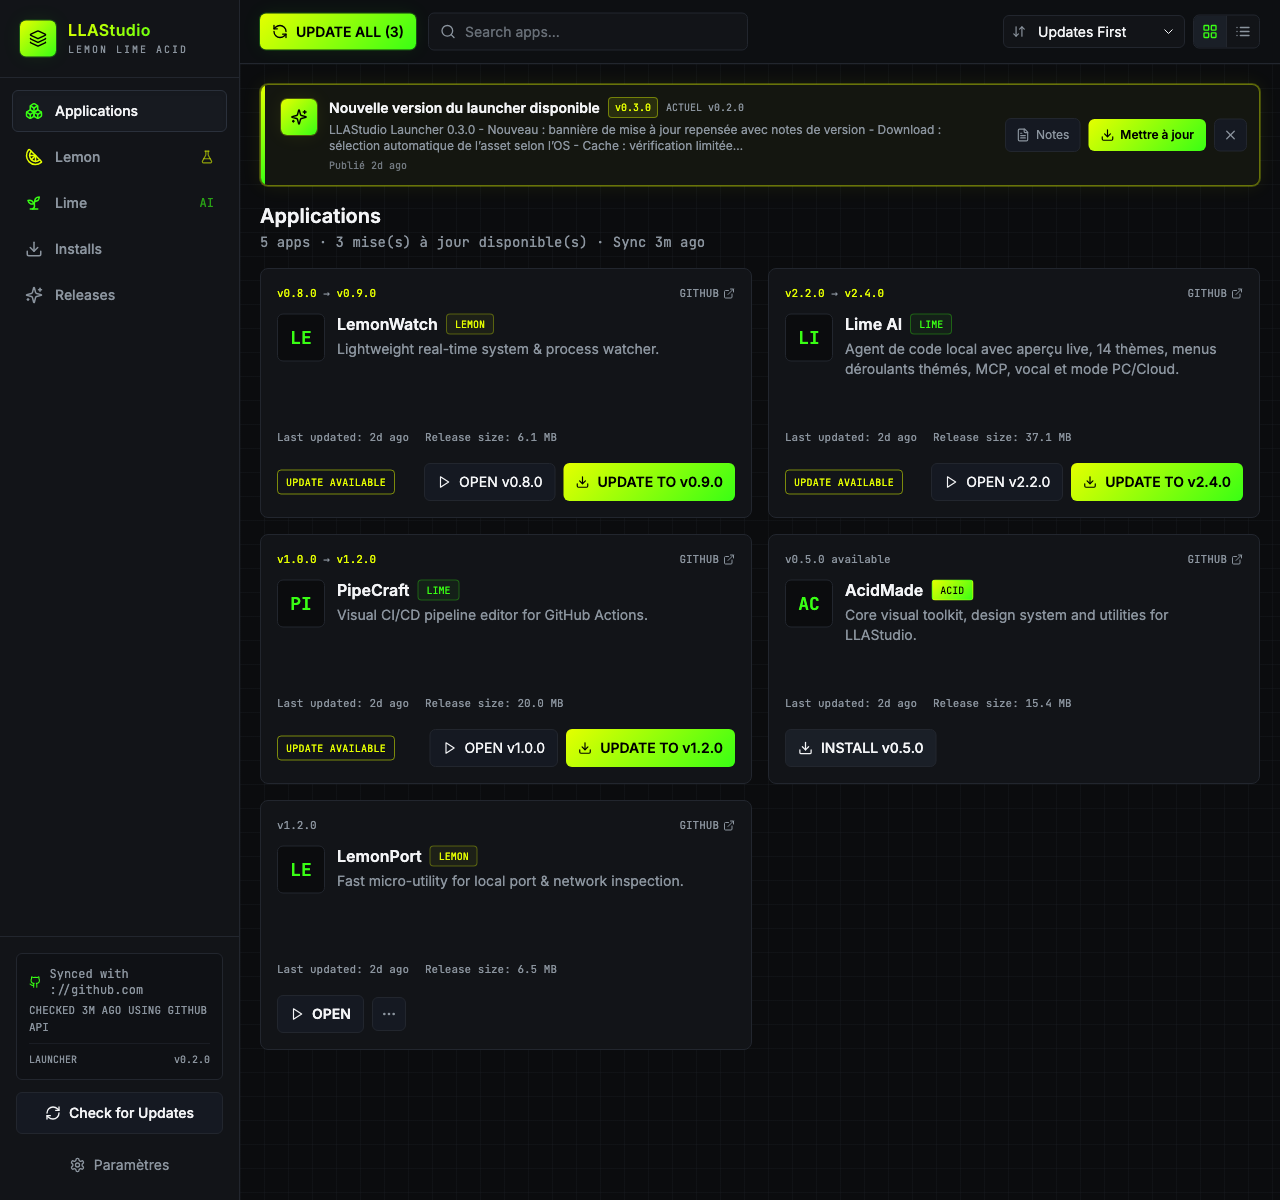
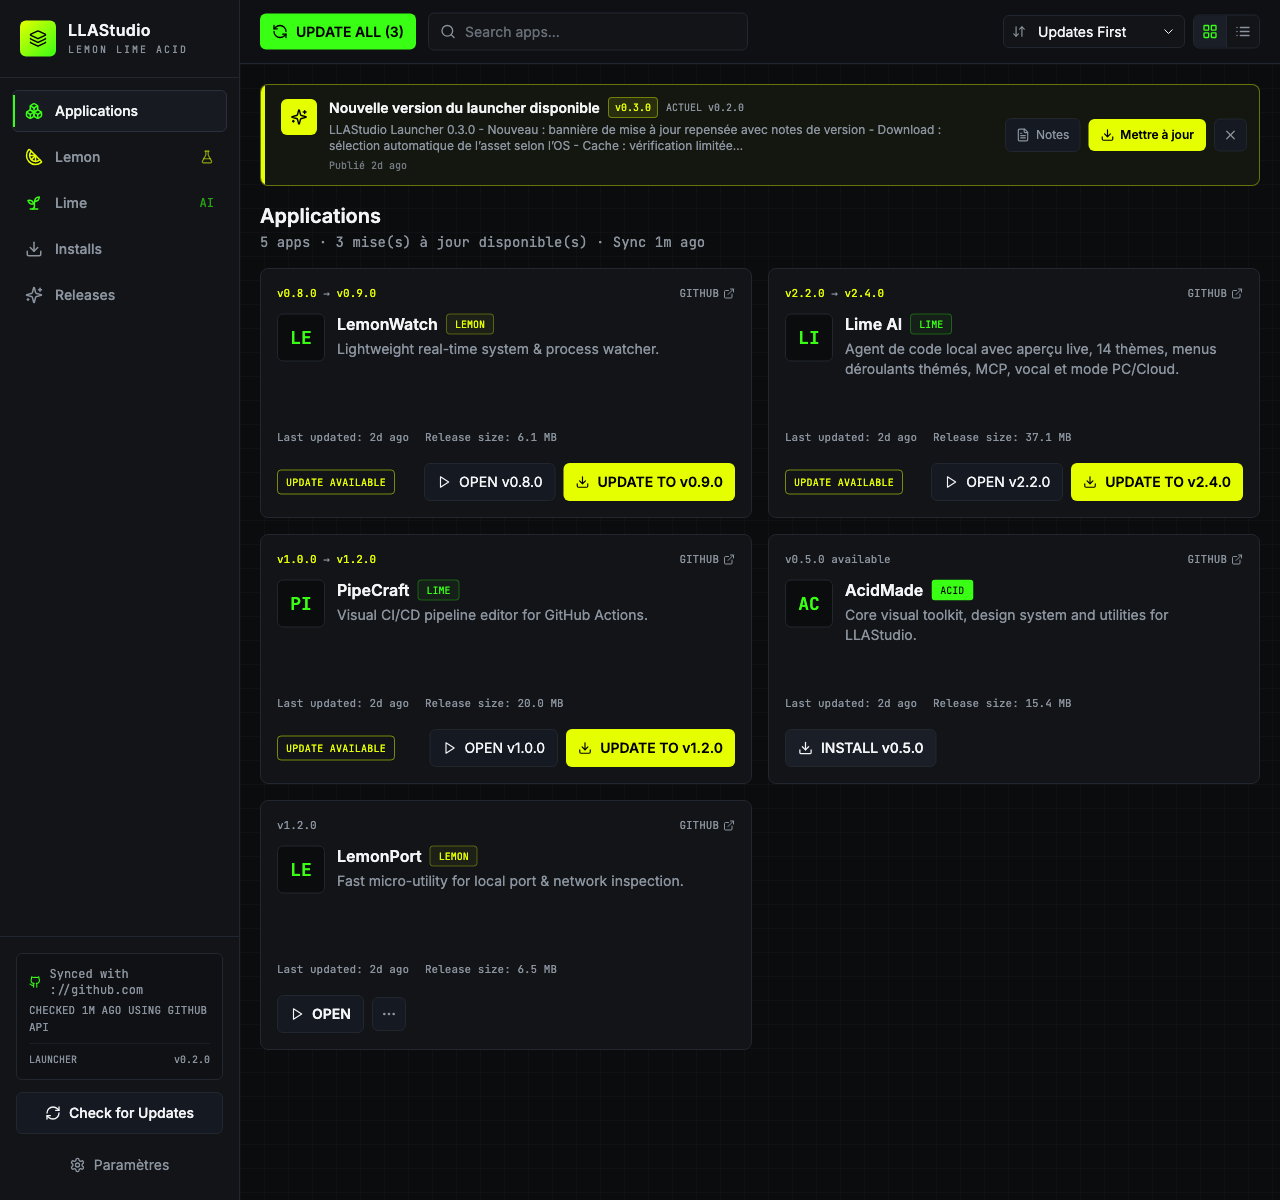
Sharpen the launcher visual language
Reduce border radii, remove neon glows and soft shadows, use flat lime/lemon action accents, and refresh the README screenshots.

🤖 Generated with Codebuff

diff --git a/src/components/AppCard.tsx b/src/components/AppCard.tsx
@@ -27,7 +27,7 @@ interface AppCardProps {
 const tagStyles: Record<string, string> = {
   Lemon: 'text-lemon border-lemon/30 bg-lemon/5',
   Lime: 'text-lime border-lime/30 bg-lime/5',
-  Acid: 'text-black border-transparent bg-acid',
+  Acid: 'text-black border-transparent bg-lime',
 };
 
 export const AppCard: React.FC<AppCardProps> = ({
@@ -77,8 +77,8 @@ export const AppCard: React.FC<AppCardProps> = ({
             <span>{updateAvailable ? 'Updating' : 'Installing'} v{download.targetVersion || latestVersion}</span>
             <span>{progress.toFixed(0)}%</span>
           </div>
-          <div className="h-2 rounded-full bg-[#0B0C0E] border border-border overflow-hidden">
-            <div className="h-full bg-acid transition-all" style={{ width: `${progress}%` }} />
+          <div className="h-2 rounded-none bg-[#0B0C0E] border border-border overflow-hidden">
+            <div className="h-full bg-lime transition-all" style={{ width: `${progress}%` }} />
           </div>
         </div>
       );
@@ -113,7 +113,7 @@ export const AppCard: React.FC<AppCardProps> = ({
             <button
               onClick={() => onUpdate(latestVersion)}
               disabled={!bestAsset}
-              className="inline-flex items-center gap-2 px-3 py-2 rounded-md bg-acid text-black font-semibold text-sm hover:brightness-110 disabled:opacity-50"
+              className="inline-flex items-center gap-2 px-3 py-2 rounded-md bg-lemon text-black font-semibold text-sm hover:brightness-110 disabled:opacity-50"
             >
               <Download size={14} /> UPDATE TO v{latestVersion}
             </button>
@@ -140,7 +140,7 @@ export const AppCard: React.FC<AppCardProps> = ({
           </button>
           {menuOpen && (
             <div
-              className="absolute right-0 bottom-full mb-2 w-52 rounded-md border border-border bg-[#121418] shadow-xl z-20 overflow-hidden"
+              className="absolute right-0 bottom-full mb-2 w-52 rounded-md border border-border bg-[#121418] z-20 overflow-hidden"
               onMouseLeave={() => setMenuOpen(false)}
             >
               <button onClick={() => { setMenuOpen(false); onOpenDetails(); }} className="w-full px-3 py-2 text-left text-sm hover:bg-[#1A1F27] flex items-center gap-2">
@@ -189,7 +189,7 @@ export const AppCard: React.FC<AppCardProps> = ({
   }
 
   return (
-    <div className="group border border-border bg-card rounded-lg p-4 hover:border-[#2f3542] hover:shadow-[0_0_0_1px_rgba(57,255,20,0.06)] transition flex flex-col min-h-[250px]">
+    <div className="group border border-border bg-card rounded-lg p-4 hover:border-[#3A4150] transition flex flex-col min-h-[250px]">
       <div className="flex items-start justify-between gap-2 mb-3">
         {headerVersion}
         <button onClick={onOpenRepo} className="font-mono text-[11px] text-muted hover:text-lime inline-flex items-center gap-1 shrink-0">

diff --git a/src/components/Topbar.tsx b/src/components/Topbar.tsx
@@ -24,12 +24,12 @@ export const Topbar: React.FC<TopbarProps> = ({
   onViewModeChange,
 }) => {
   return (
-    <div className="h-16 border-b border-border bg-[#0E1014]/80 backdrop-blur flex items-center justify-between px-5 gap-4">
+    <div className="h-16 border-b border-border bg-[#0E1014] flex items-center justify-between px-5 gap-4">
       <div className="flex min-w-0 flex-1 items-center gap-3">
         {updatesCount > 0 && (
           <button
             onClick={onUpdateAll}
-            className="shrink-0 inline-flex items-center gap-2 px-3 py-2 rounded-md bg-acid text-black font-semibold text-sm hover:brightness-110 transition shadow-glowLime"
+            className="shrink-0 inline-flex items-center gap-2 px-3 py-2 rounded-md bg-lime text-black font-semibold text-sm hover:brightness-110 transition"
             title="Update all applications with available updates"
           >
             <RefreshCcw size={16} /> UPDATE ALL ({updatesCount})
@@ -41,7 +41,7 @@ export const Topbar: React.FC<TopbarProps> = ({
             value={search}
             onChange={(e) => onSearchChange(e.target.value)}
             placeholder="Search apps..."
-            className="w-full bg-[#121418] border border-border rounded-md pl-9 pr-3 py-2 text-sm outline-none focus:border-lime/40 focus:shadow-glowLime placeholder:text-muted/70"
+            className="w-full bg-[#121418] border border-border rounded-md pl-9 pr-3 py-2 text-sm outline-none focus:border-lime/50 placeholder:text-muted/70"
           />
         </div>
       </div>
@@ -52,7 +52,7 @@ export const Topbar: React.FC<TopbarProps> = ({
           <select
             value={sortMode}
             onChange={(e) => onSortChange(e.target.value as SortMode)}
-            className="bg-transparent text-sm outline-none text-text pr-1 cursor-pointer"
+            className="bg-[#121418] text-sm outline-none text-text pr-1 cursor-pointer"
           >
             <option value="name">Name A-Z</option>
             <option value="recently-updated">Recently Updated</option>

diff --git a/src/components/Sidebar.tsx b/src/components/Sidebar.tsx
@@ -44,11 +44,11 @@ export const Sidebar: React.FC<SidebarProps> = ({
     <aside className="w-[240px] shrink-0 h-full bg-card border-r border-border flex flex-col">
       <div className="px-5 py-5 border-b border-border">
         <div className="flex items-center gap-3">
-          <div className="w-9 h-9 rounded-md bg-acid flex items-center justify-center text-black font-bold shadow-glowLime">
+          <div className="w-9 h-9 rounded-md bg-acid flex items-center justify-center text-black font-bold">
             <Layers3 size={18} />
           </div>
           <div>
-            <div className="font-semibold tracking-wide acid-text leading-tight">LLAStudio</div>
+            <div className="font-semibold tracking-wide text-text leading-tight">LLAStudio</div>
             <div className="text-[10px] font-mono tracking-[0.2em] text-muted mt-0.5">LEMON LIME ACID</div>
           </div>
         </div>
@@ -61,12 +61,13 @@ export const Sidebar: React.FC<SidebarProps> = ({
             <button
               key={item.id}
               onClick={() => onChange(item.id)}
-              className={`w-full flex items-center gap-3 px-3 py-2.5 rounded-md border text-sm transition-all ${
+              className={`relative w-full flex items-center gap-3 px-3 py-2.5 rounded-md border text-sm transition-all ${
                 isActive
-                  ? 'bg-[#171A20] border-[#2A303B] text-text shadow-inner'
+                  ? 'bg-[#171A20] border-[#2A303B] text-text'
                   : 'border-transparent text-muted hover:text-text hover:bg-[#151922] hover:border-[#232938]'
               }`}
             >
+              {isActive && <span className="absolute inset-y-1 left-0 w-0.5 bg-lime" />}
               <span className={item.tone || (isActive ? 'text-lime' : 'text-muted')}>{item.icon}</span>
               <span className="font-medium">{item.label}</span>
               {item.id === 'lemon' && <FlaskConical size={14} className="ml-auto text-lemon/60" />}

diff --git a/src/components/AppDetailsModal.tsx b/src/components/AppDetailsModal.tsx
@@ -37,7 +37,7 @@ export const AppDetailsModal: React.FC<Props> = ({
   return (
     <div className="fixed inset-0 z-50 flex items-center justify-center bg-black/70 p-6" onClick={onClose}>
       <div
-        className="w-full max-w-4xl max-h-[85vh] bg-card border border-border rounded-xl overflow-hidden shadow-2xl flex flex-col"
+        className="w-full max-w-4xl max-h-[85vh] bg-card border border-border rounded-xl overflow-hidden flex flex-col"
         onClick={(e) => e.stopPropagation()}
       >
         <div className="px-5 py-4 border-b border-border flex items-start justify-between gap-4 bg-[#101319]">
@@ -78,7 +78,7 @@ export const AppDetailsModal: React.FC<Props> = ({
                       key={v.version}
                       onClick={() => setSelected(v.version)}
                       className={`w-full text-left p-2.5 rounded-md border transition ${
-                        selected === v.version ? 'border-lime/40 bg-[#151922] shadow-glowLime' : 'border-border hover:border-[#2A303B]'
+                        selected === v.version ? 'border-lime/50 bg-[#151922]' : 'border-border hover:border-[#2A303B]'
                       }`}
                     >
                       <div className="flex items-center justify-between">
@@ -114,7 +114,7 @@ export const AppDetailsModal: React.FC<Props> = ({
                 <button
                   onClick={() => onInstall(latest)}
                   disabled={!bestAsset}
-                  className="w-full px-3 py-2 rounded-md bg-acid text-black font-semibold inline-flex items-center justify-center gap-2 disabled:opacity-50"
+                  className="w-full px-3 py-2 rounded-md bg-lime text-black font-semibold inline-flex items-center justify-center gap-2 disabled:opacity-50"
                 >
                   <Download size={15} /> Installer v{latest}
                 </button>

diff --git a/src/components/LauncherUpdateBanner.tsx b/src/components/LauncherUpdateBanner.tsx
@@ -33,11 +33,11 @@ export const LauncherUpdateBanner: React.FC<Props> = ({
   onDownload,
 }) => {
   return (
-    <div className="relative mb-4 overflow-hidden rounded-lg border border-lemon/40 bg-[#141610] shadow-glowLemon">
-      <div className="absolute inset-y-0 left-0 w-1 bg-acid" />
+    <div className="relative mb-4 overflow-hidden rounded-lg border border-lemon/40 bg-[#141610]">
+      <div className="absolute inset-y-0 left-0 w-1 bg-lemon" />
       <div className="flex flex-col gap-3 py-3 pl-5 pr-3 sm:flex-row sm:items-center sm:justify-between">
         <div className="flex min-w-0 flex-1 items-start gap-3">
-          <div className="mt-0.5 flex h-9 w-9 shrink-0 items-center justify-center rounded-md bg-acid text-black shadow-glowLemon">
+          <div className="mt-0.5 flex h-9 w-9 shrink-0 items-center justify-center rounded-md bg-lemon text-black">
             <Sparkles size={17} />
           </div>
           <div className="min-w-0">
@@ -67,7 +67,7 @@ export const LauncherUpdateBanner: React.FC<Props> = ({
           </button>
           <button
             onClick={onDownload}
-            className="inline-flex items-center gap-1.5 rounded-md bg-acid px-3 py-2 text-xs font-semibold text-black transition hover:brightness-110"
+            className="inline-flex items-center gap-1.5 rounded-md bg-lemon px-3 py-2 text-xs font-semibold text-black transition hover:brightness-110"
           >
             {directDownload ? <Download size={14} /> : <ArrowUpRight size={14} />}
             {directDownload ? 'Mettre à jour' : 'Voir la release'}

diff --git a/src/index.css b/src/index.css
@@ -16,6 +16,11 @@ html, body, #root {
   box-sizing: border-box;
 }
 
+select option {
+  background-color: #121418;
+  color: #F3F4F6;
+}
+
 ::-webkit-scrollbar {
   width: 10px;
   height: 10px;
@@ -25,7 +30,7 @@ html, body, #root {
 }
 ::-webkit-scrollbar-thumb {
   background: #22262E;
-  border-radius: 999px;
+  border-radius: 0;
   border: 2px solid #0B0C0E;
 }
 ::-webkit-scrollbar-thumb:hover {
@@ -40,8 +45,8 @@ html, body, #root {
 }
 
 .grid-bg {
-  background-image: linear-gradient(to right, rgba(34,38,46,0.25) 1px, transparent 1px),
-    linear-gradient(to bottom, rgba(34,38,46,0.25) 1px, transparent 1px);
+  background-image: linear-gradient(to right, rgba(34,38,46,0.18) 1px, transparent 1px),
+    linear-gradient(to bottom, rgba(34,38,46,0.18) 1px, transparent 1px);
   background-size: 24px 24px;
 }
 
@@ -49,6 +54,6 @@ html, body, #root {
 .prose-invert p, .prose-invert li { color: #c9d1d9; }
 .prose-invert a { color: #39FF14; }
 .prose-invert code { color: #E5FF00; font-family: 'JetBrains Mono', monospace; font-size: 0.9em; }
-.prose-invert pre { background: #0B0C0E; border: 1px solid #22262E; padding: 0.75rem; border-radius: 0.5rem; overflow: auto; }
+.prose-invert pre { background: #0B0C0E; border: 1px solid #22262E; padding: 0.75rem; border-radius: 0; overflow: auto; }
 .prose-invert ul { list-style: disc; padding-left: 1.25rem; }
 .prose-invert ol { list-style: decimal; padding-left: 1.25rem; }

diff --git a/src/components/LauncherReleaseNotesModal.tsx b/src/components/LauncherReleaseNotesModal.tsx
@@ -23,7 +23,7 @@ export const LauncherReleaseNotesModal: React.FC<Props> = ({
   return (
     <div className="fixed inset-0 z-50 flex items-center justify-center bg-black/70 p-6" onClick={onClose}>
       <div
-        className="flex max-h-[85vh] w-full max-w-2xl flex-col overflow-hidden rounded-xl border border-border bg-card shadow-2xl"
+        className="flex max-h-[85vh] w-full max-w-2xl flex-col overflow-hidden rounded-xl border border-border bg-card"
         onClick={(e) => e.stopPropagation()}
       >
         <div className="flex items-start justify-between gap-4 border-b border-border bg-[#101319] px-5 py-4">
@@ -81,7 +81,7 @@ export const LauncherReleaseNotesModal: React.FC<Props> = ({
             </button>
             <button
               onClick={onDownload}
-              className="inline-flex items-center gap-2 rounded-md bg-acid px-3 py-2 text-sm font-semibold text-black transition hover:brightness-110"
+              className="inline-flex items-center gap-2 rounded-md bg-lemon px-3 py-2 text-sm font-semibold text-black transition hover:brightness-110"
             >
               {directDownload ? <Download size={15} /> : <ArrowUpRight size={15} />}
               {directDownload ? 'Télécharger la mise à jour' : 'Voir la release'}

diff --git a/tailwind.config.js b/tailwind.config.js
@@ -19,9 +19,16 @@ export default {
       backgroundImage: {
         acid: 'linear-gradient(135deg, #E5FF00 0%, #39FF14 100%)',
       },
-      boxShadow: {
-        glowLemon: '0 0 0 1px rgba(229,255,0,0.25), 0 0 20px rgba(229,255,0,0.08)',
-        glowLime: '0 0 0 1px rgba(57,255,20,0.25), 0 0 20px rgba(57,255,20,0.08)',
+      borderRadius: {
+        none: '0px',
+        sm: '1px',
+        DEFAULT: '1px',
+        md: '1px',
+        lg: '0px',
+        xl: '0px',
+        '2xl': '0px',
+        '3xl': '0px',
+        full: '9999px',
       },
     },
   },

diff --git a/src/components/SettingsModal.tsx b/src/components/SettingsModal.tsx
@@ -142,7 +142,7 @@ export const SettingsModal: React.FC<Props> = ({
                 checkLauncherUpdates,
               })
             }
-            className="inline-flex items-center gap-2 rounded-md bg-acid px-3 py-2 text-sm font-semibold text-black hover:brightness-110"
+            className="inline-flex items-center gap-2 rounded-md bg-lime px-3 py-2 text-sm font-semibold text-black hover:brightness-110"
           >
             <Save size={15} /> Enregistrer
           </button>
